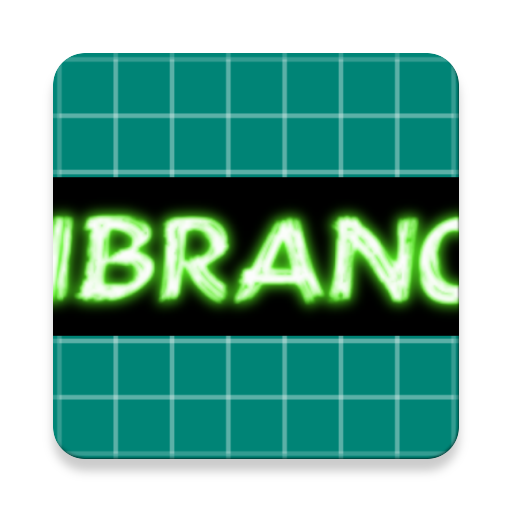
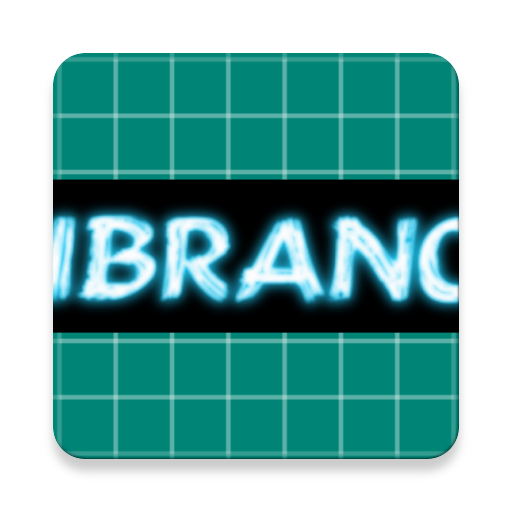
Neon 4 lights

Changed region(s): [[0.0938, 0.4062, 0.9062, 0.6562], [0.0938, 0.3438, 0.9062, 0.375]]

diff --git a/UIDesign/app/src/main/java/com/example/deltasp/uidesign/MainActivity.java b/UIDesign/app/src/main/java/com/example/deltasp/uidesign/MainActivity.java
@@ -2,6 +2,7 @@ package com.example.deltasp.uidesign;
 
 import android.content.Intent;
 import android.graphics.drawable.AnimationDrawable;
+import android.os.AsyncTask;
 import android.support.v7.app.AppCompatActivity;
 import android.os.Bundle;
 import android.support.v7.widget.LinearLayoutManager;
@@ -11,34 +12,47 @@ import android.widget.ImageButton;
 import android.widget.ImageView;
 import android.widget.Toast;
 
+import java.io.BufferedReader;
+import java.io.IOException;
+import java.io.InputStream;
+import java.io.InputStreamReader;
+import java.net.HttpURLConnection;
+import java.net.MalformedURLException;
+import java.net.URL;
 import java.util.ArrayList;
 
 public class MainActivity extends AppCompatActivity {
+    String json_string;
+    private ArrayList<String> mnames = new ArrayList<>();
 
-    private ArrayList<String> mnames=new ArrayList<>();
+    private ArrayList<String> mImageURLs = new ArrayList<>();
+    int count = 0;
 
-    private ArrayList<String> mImageURLs=new ArrayList<>();
-    int count=0;
-
-    public void callfn(View v)
-    {
+    public void callfn(View v) {
 
     }
+
     @Override
     protected void onCreate(Bundle savedInstanceState) {
         super.onCreate(savedInstanceState);
         setContentView(R.layout.activity_main);
-        final ImageView imgvw=(ImageView)findViewById(R.id.vibrance);
+        final ImageView imgvw = (ImageView) findViewById(R.id.vibrance);
         imgvw.setOnClickListener(new View.OnClickListener() {
             @Override
             public void onClick(View v) {
                 count++;
-                if(count%2==1) {
+                if (count % 4 == 1) {
                     imgvw.setImageResource(R.mipmap.ic_launcher_foregroundvib2);
+                } else if (count % 4 == 2) {
+                    imgvw.setImageResource(R.mipmap.ic_launcher_foregroundvib);
+                }
+                else if (count % 4 == 3)
+                {
+                    imgvw.setImageResource(R.mipmap.ic_launcher_foregroundvib3);
                 }
                 else
                 {
-                    imgvw.setImageResource(R.mipmap.ic_launcher_foregroundvib);
+                    imgvw.setImageResource(R.mipmap.ic_launcher_foregroundvib4);
                 }
 
             }
@@ -50,50 +64,46 @@ public class MainActivity extends AppCompatActivity {
     private void getImages() {
 
 
-        mImageURLs.add("https://c1.staticflickr.com/5/4636/25316407448_de5fbf183d_o.jpg");
-        mnames.add("Havasu Falls");
+        mImageURLs.add("https://i.imgur.com//hu3XwNF.jpg");
+        mnames.add("Event 1");
 
-        mImageURLs.add("https://i.redd.it/tpsnoz5bzo501.jpg");
-        mnames.add("Trondheim");
+        mImageURLs.add("https://i.imgur.com//w4WcoU2.png");
+        mnames.add("Event 2");
 
-        mImageURLs.add("https://i.redd.it/qn7f9oqu7o501.jpg");
-        mnames.add("Portugal");
+        mImageURLs.add("https://i.imgur.com//7Nb3mKU.jpg");
+        mnames.add("Event 3");
 
-        mImageURLs.add("https://i.redd.it/j6myfqglup501.jpg");
-        mnames.add("Rocky Mountain National Park");
-
-
-        mImageURLs.add("https://i.redd.it/0h2gm1ix6p501.jpg");
-        mnames.add("Mahahual");
-
-        mImageURLs.add("https://i.redd.it/k98uzl68eh501.jpg");
-        mnames.add("Frozen Lake");
+        mImageURLs.add("https://i.imgur.com//KF3SaJu.jpg");
+        mnames.add("Event 4");
 
 
-        mImageURLs.add("https://i.redd.it/glin0nwndo501.jpg");
-        mnames.add("White Sands Desert");
+        mImageURLs.add("https://i.imgur.com//qRBPjQs.jpg");
+        mnames.add("Event 5");
 
-        mImageURLs.add("https://i.redd.it/obx4zydshg601.jpg");
-        mnames.add("Austrailia");
+        mImageURLs.add("https://i.imgur.com//PBzvumx.jpg");
+        mnames.add("Event 6");
 
-        mImageURLs.add("https://i.imgur.com/ZcLLrkY.jpg");
-        mnames.add("Washington");
+
+        mImageURLs.add("https://i.imgur.com/GFtwsEs.png");
+        mnames.add("Event 7");
+
+        mImageURLs.add("https://i.imgur.com//IBLKZ1e.jpg");
+        mnames.add("Event 8");
+
+        mImageURLs.add("https://i.imgur.com//l6EYwyk.jpg");
+        mnames.add("Event 9");
 
         initRecyclerView();
     }
 
 
-
-
-    private void initRecyclerView()
-    {
-        LinearLayoutManager layoutManager= new LinearLayoutManager(this,LinearLayoutManager.HORIZONTAL,false);
+    private void initRecyclerView() {
+        LinearLayoutManager layoutManager = new LinearLayoutManager(this, LinearLayoutManager.HORIZONTAL, false);
         RecyclerView recyclerview = findViewById(R.id.recyclerview);
         recyclerview.setLayoutManager(layoutManager);
-        RecyclerViewAdapter adapter = new RecyclerViewAdapter(this,mnames,mImageURLs);
+        RecyclerViewAdapter adapter = new RecyclerViewAdapter(this, mnames, mImageURLs);
         adapter.receiveContext(MainActivity.this);
         recyclerview.setAdapter(adapter);
 
     }
-
 }
